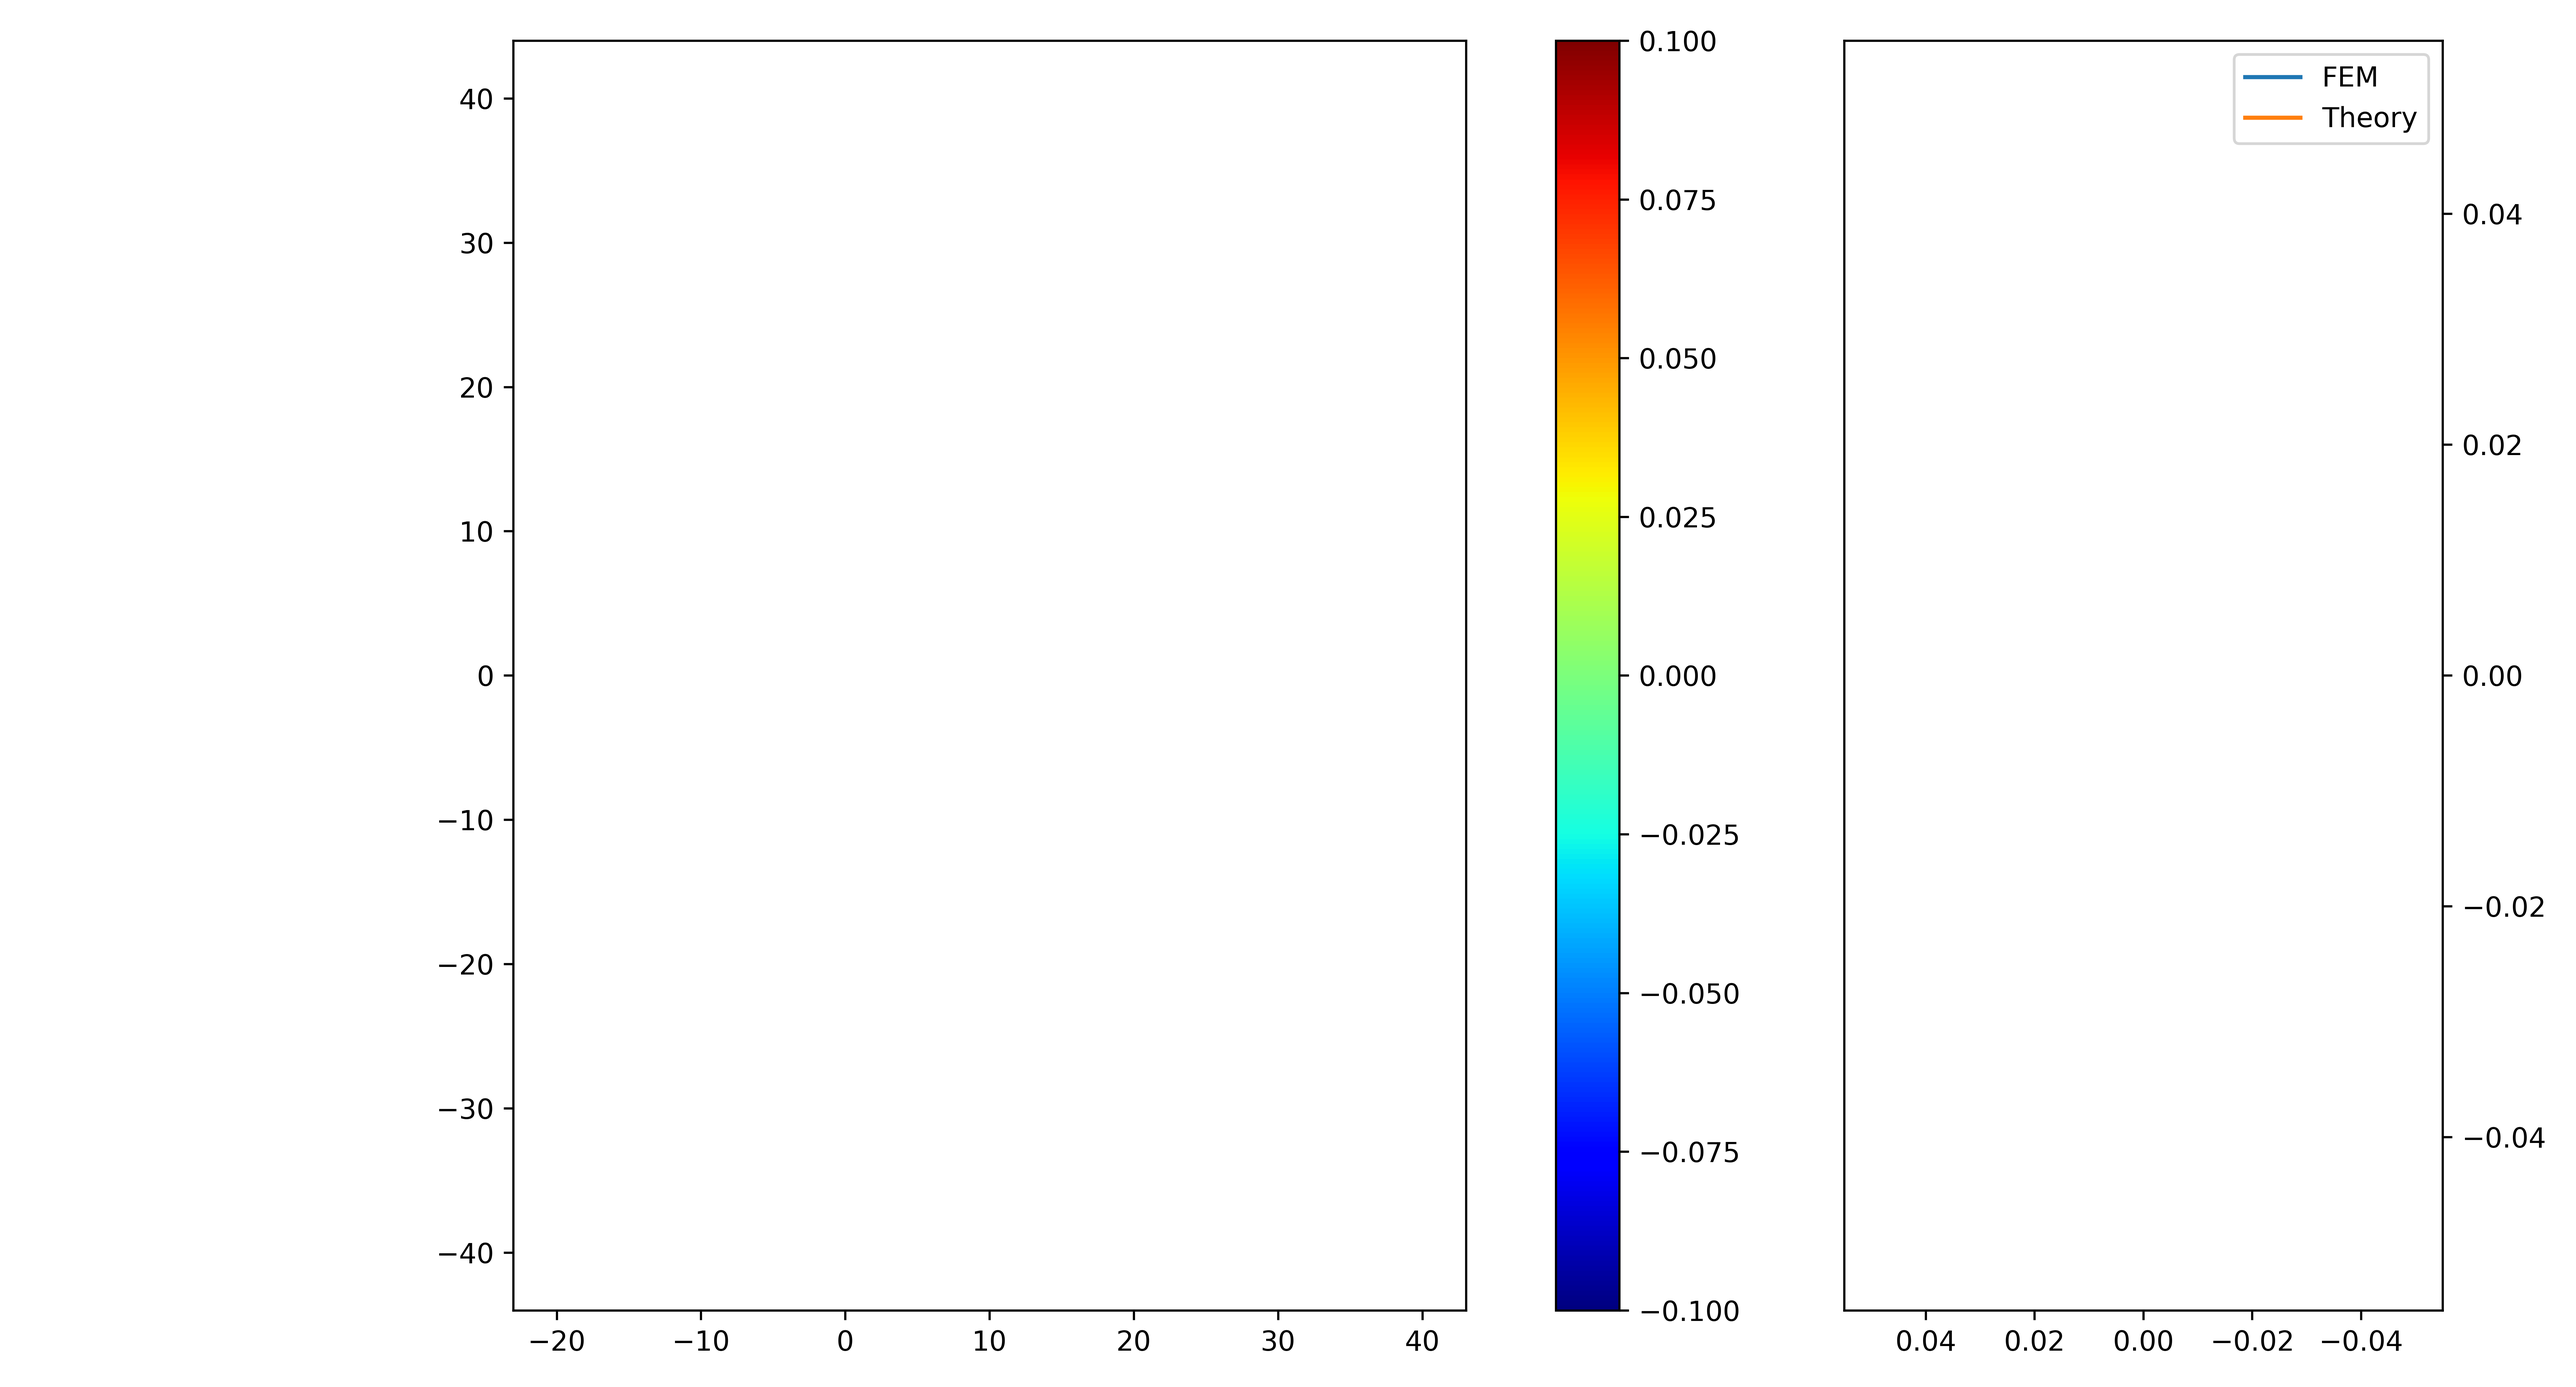
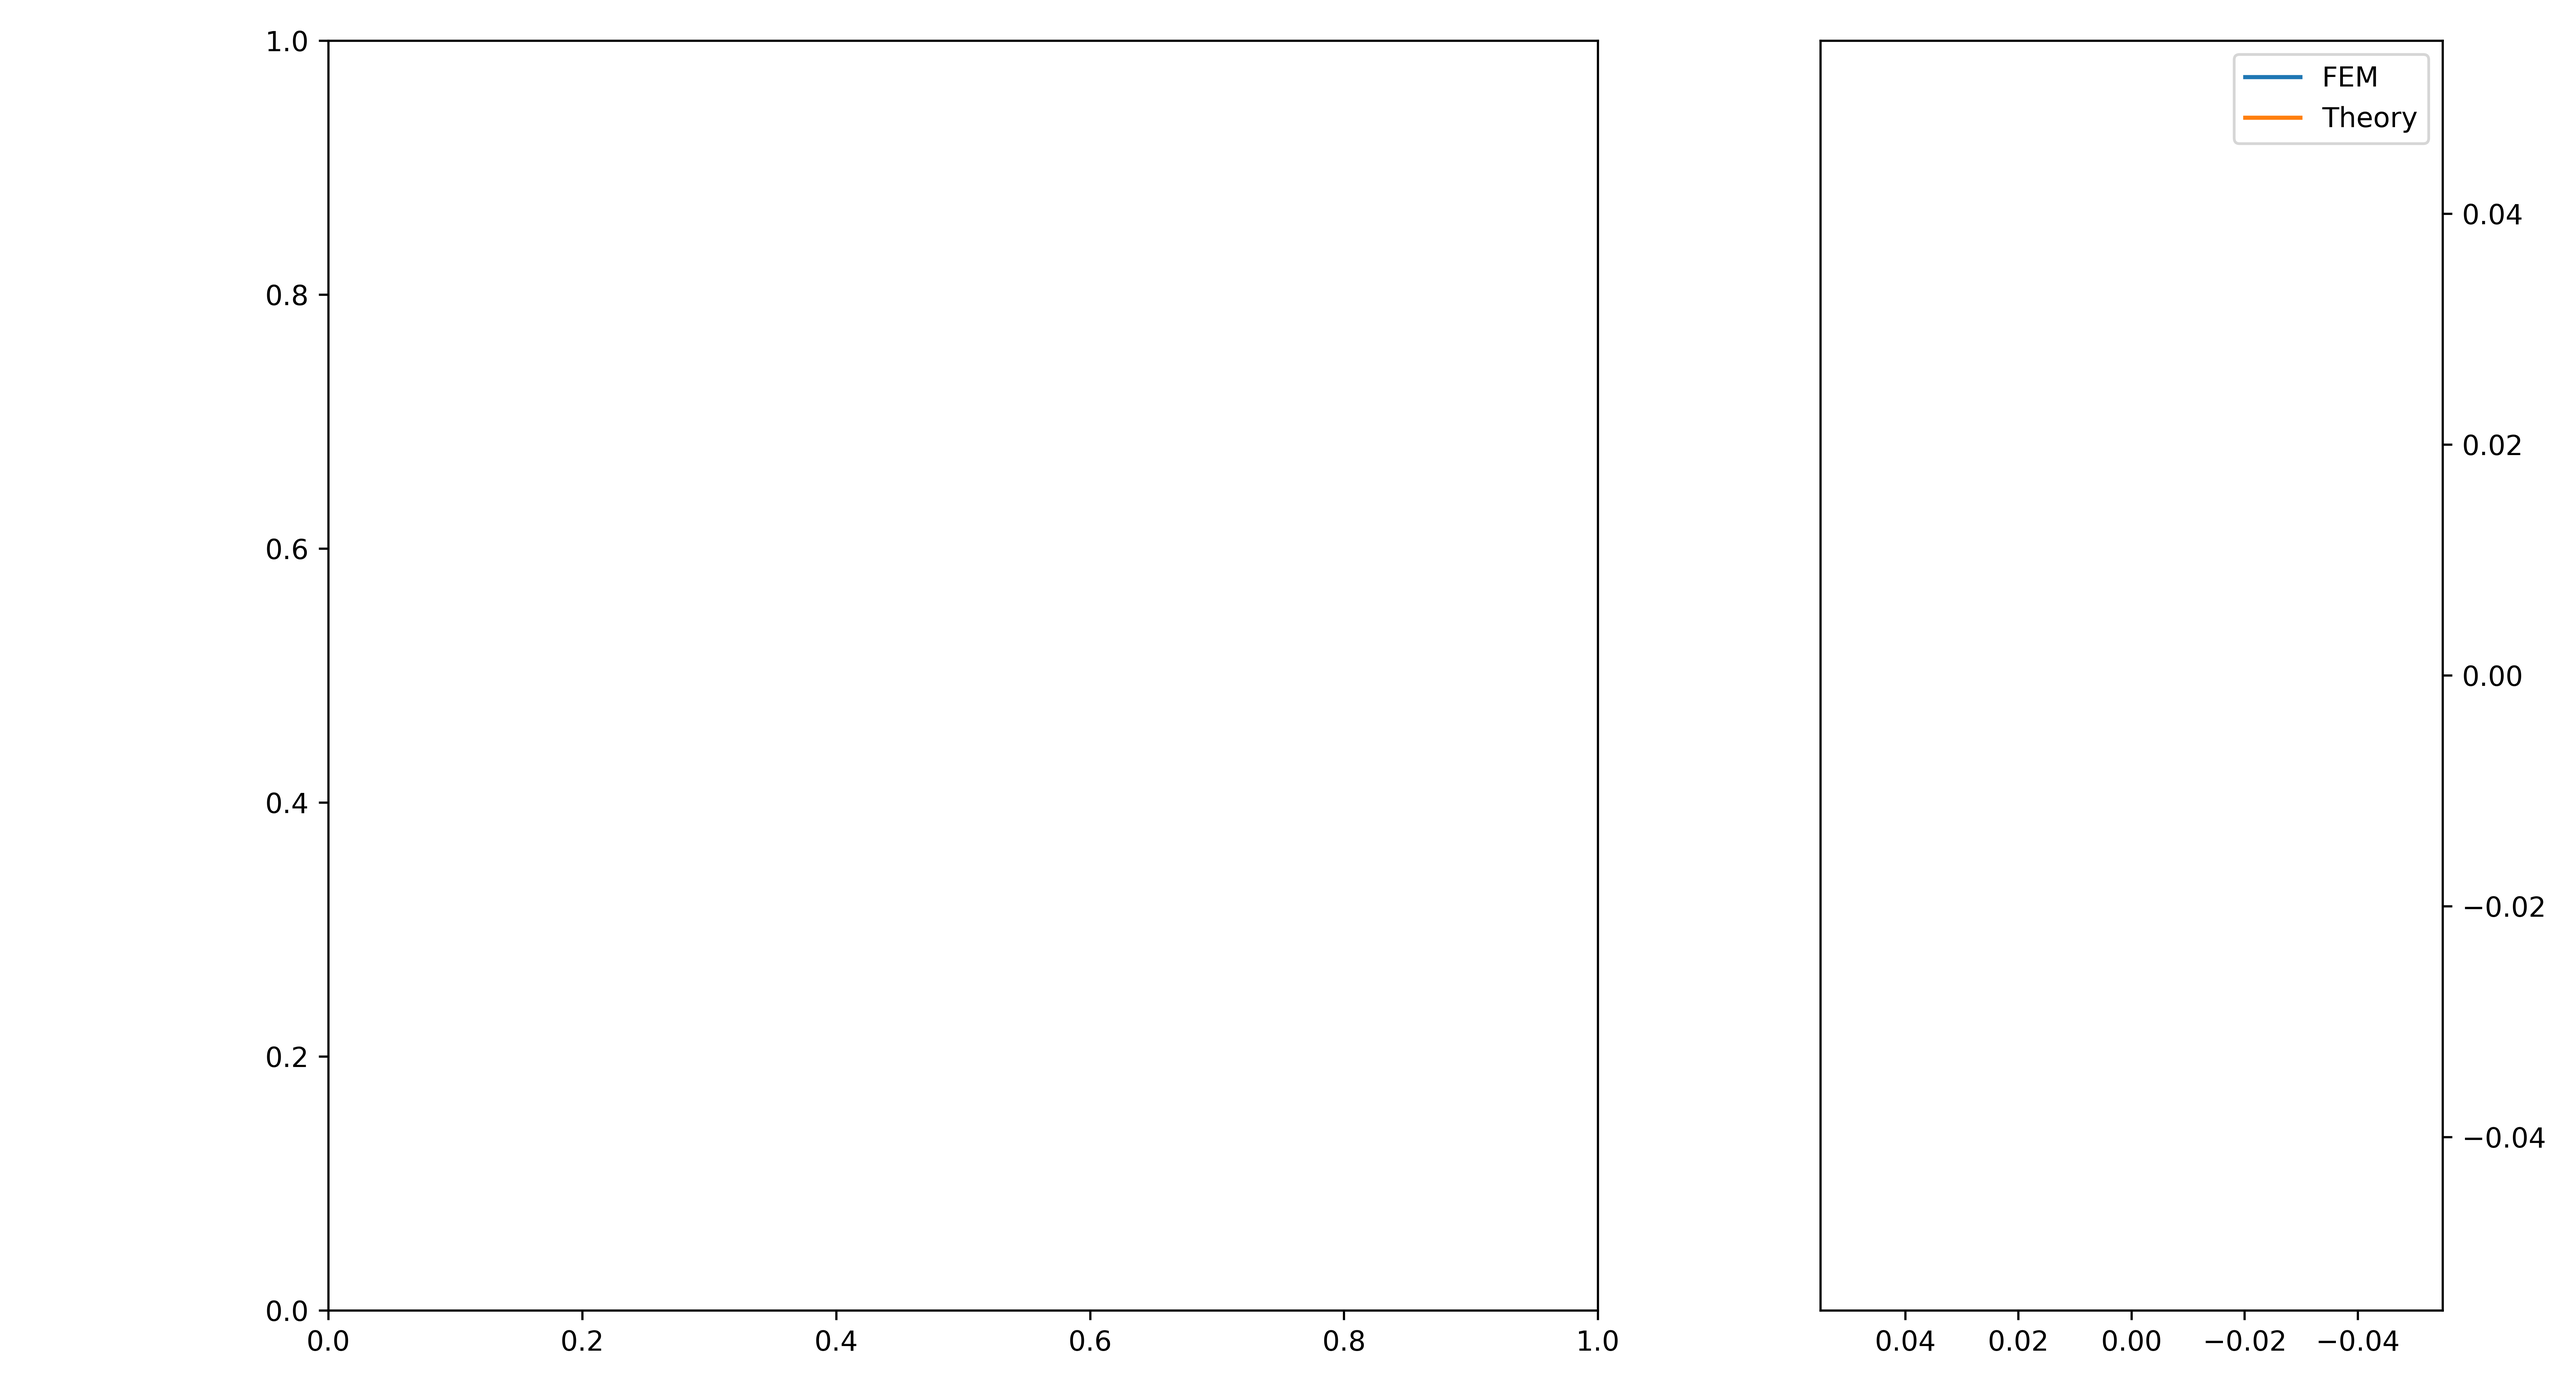
test run

diff --git a/scikit_fem/skfem_slit_diffraction.py b/scikit_fem/skfem_slit_diffraction.py
@@ -190,6 +190,12 @@ fem.solve(direct=True, cuda=False)
 t2 = timer()
 print(f'Solving took {t2 - t1:.3f} s\n')
 
+from skfem.visuals.matplotlib import plot, savefig, show, draw
+#M, X = fem.basis.refinterp(np.abs(fem.phi), 4)
+ax = draw(fem.mesh, boundaries_only=True)
+plot(fem.basis, np.abs(fem.phi), ax=ax, colorbar=True)
+savefig('skfem_slit_solution.png')
+
 print('near2far()')
 t1 = timer()
 x_farfield = 1000
@@ -212,7 +218,7 @@ phi_farfield_ideal = np.amax(np.abs(phi_farfield)) * np.sinc(k0 / 2 / np.pi *
 
 fig, ax = mplt.subplots(1, 2, figsize=(
     13, 7), gridspec_kw={'width_ratios': [3, 1]})
-plot(fem.basis, fem.phi.real, shading='gouraud', colorbar=True, ax=ax[0])
+#plot(fem.basis, fem.phi.real, shading='gouraud', colorbar=True, ax=ax[0])
 ax[0].set_aspect(1)
 ax[1].plot(np.abs(phi_farfield), y_farfield, label='FEM')
 ax[1].plot(np.abs(phi_farfield_ideal), y_farfield, label='Theory')

diff --git a/scikit_fem/skfem_scatterer.py b/scikit_fem/skfem_scatterer.py
@@ -224,6 +224,10 @@ fem.solve(direct=True, cuda=False)
 t2 = timer()
 print(f'Solving took {t2 - t1:.3f} s\n')
 
+ax = draw(fem.mesh, boundaries_only=True)
+plot(fem.basis, np.abs(fem.phi), ax=ax, colorbar=True)
+mplt.savefig('skfem_scatterer_solution.png')
+
 print('near2far()')
 t1 = timer()
 x_farfield = 10000
